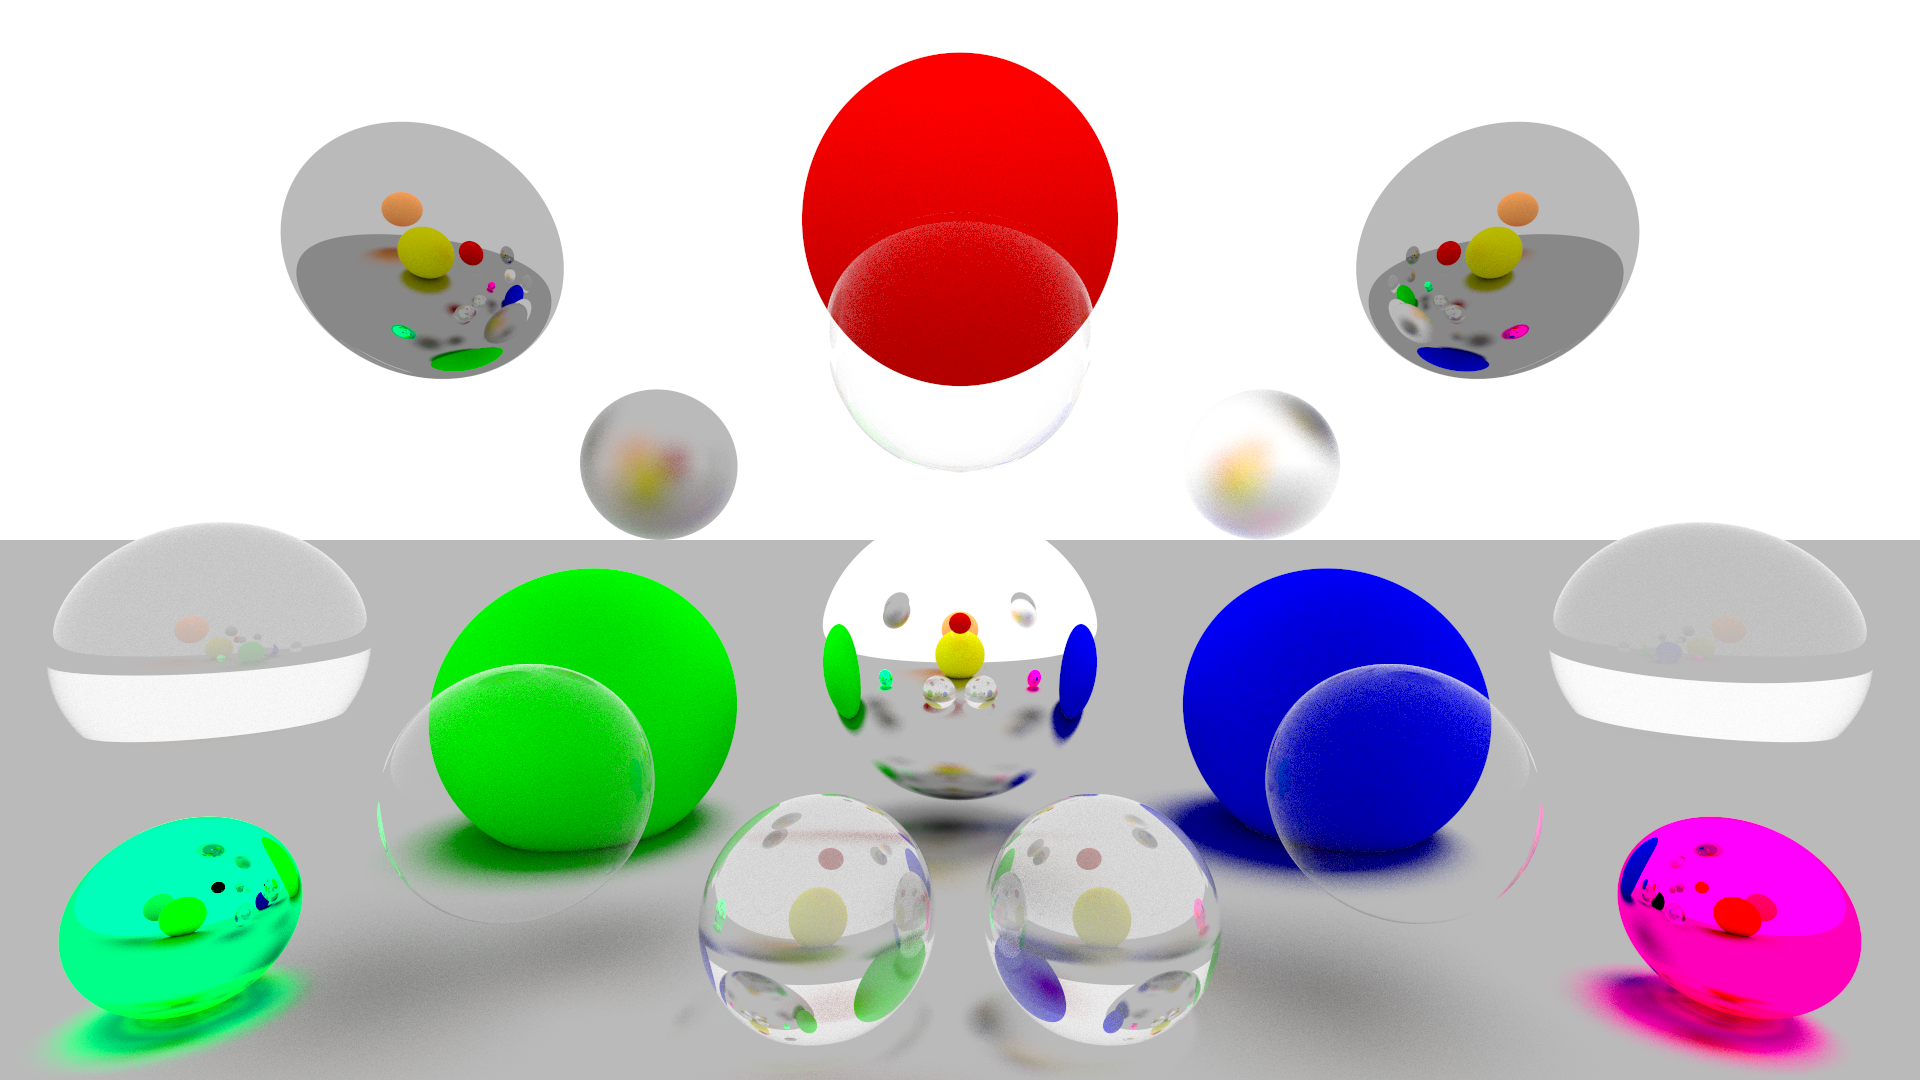
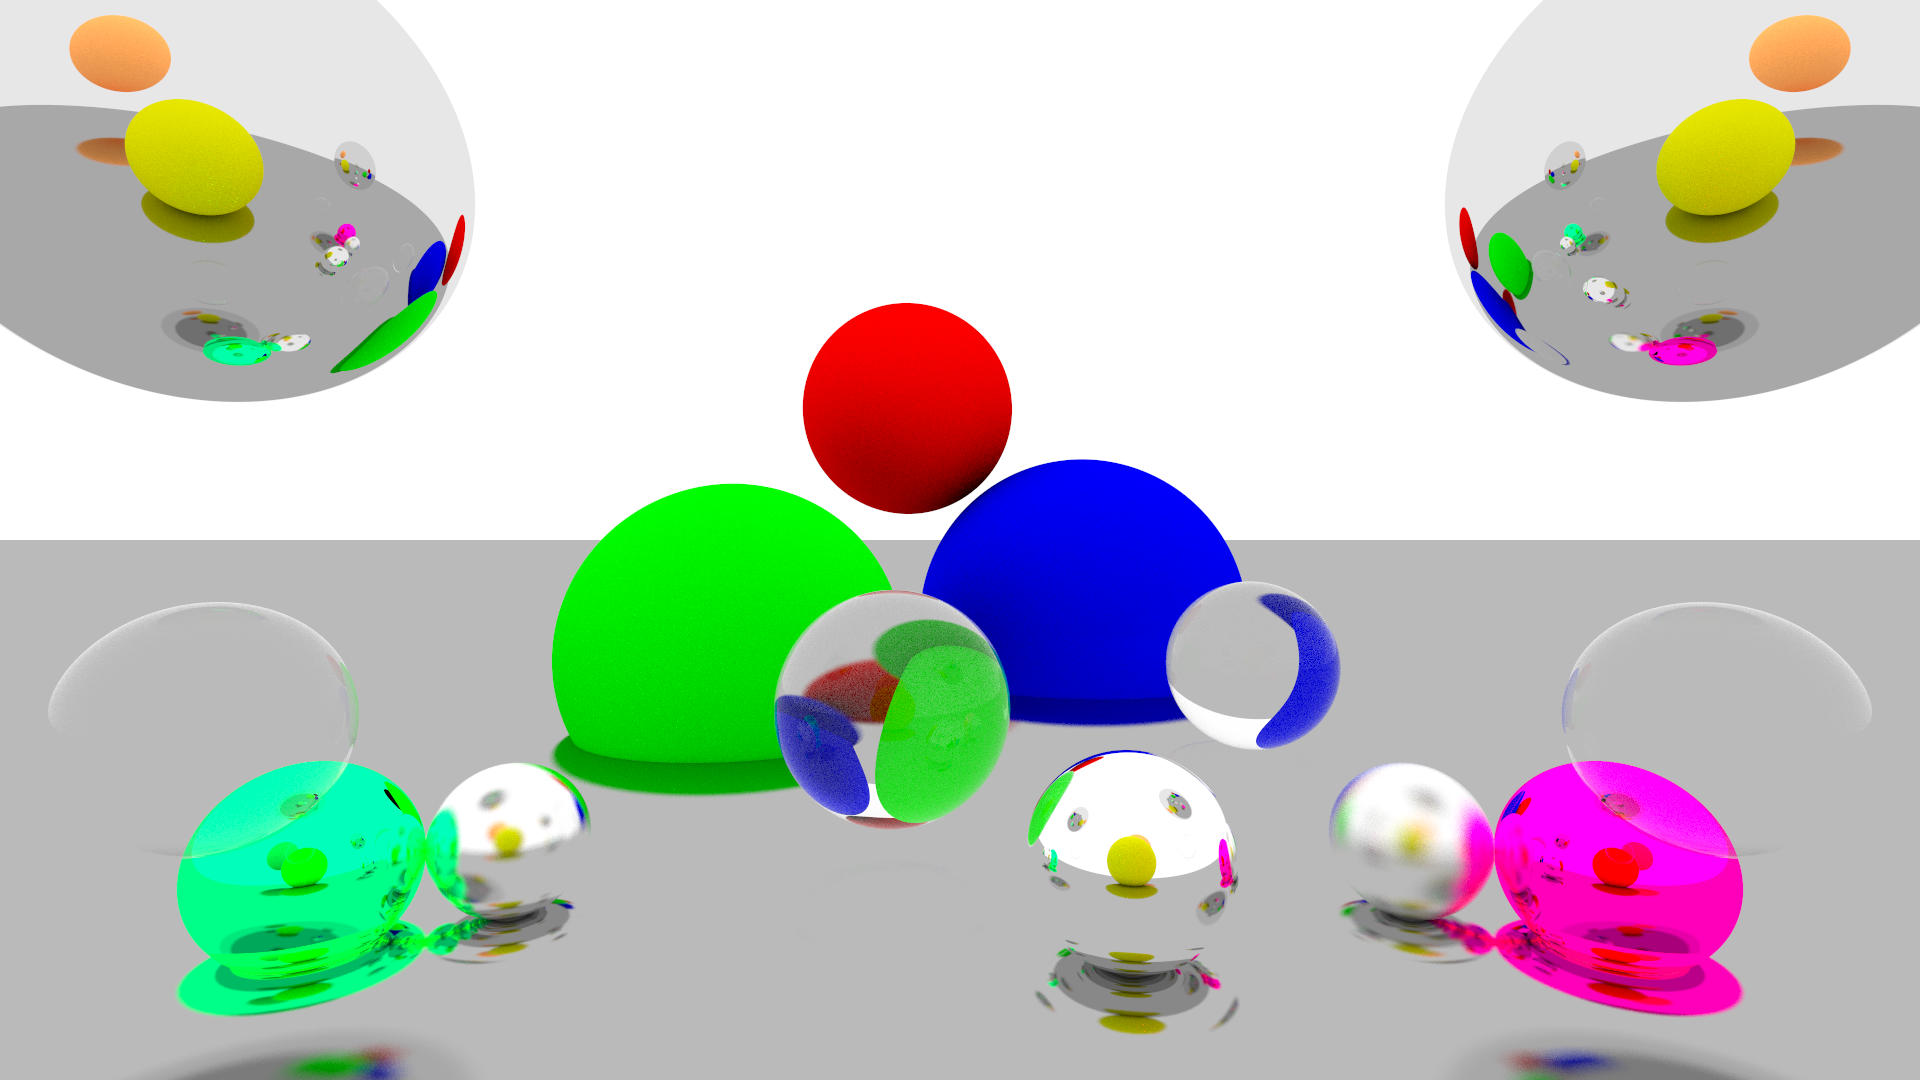
update

diff --git a/cgg-abgaben-gitHub/src/engel865650/a06/Main.java b/cgg-abgaben-gitHub/src/engel865650/a06/Main.java
@@ -22,8 +22,9 @@ public class Main {
 	static Material material;
 
 	public static void main(String[] args) {
-		// a06_mirrors_glass_1();
-		a06_mirrors_glass_2();
+
+		a06_mirrors_glass_1();
+		// a06_mirrors_glass_2();
 	}
 
 	public static void a06_mirrors_glass_1() {
@@ -35,36 +36,35 @@ public class Main {
 		//
 		Background background = new Background(new BackgroundMaterial());
 		//
-		Shape glassGlobeCenter = new Globe(new Vec3(0.0, -0.4, -3.3), 0.5, new PolishedMetalMaterial());
+		Shape glassGlobeCenter = new Globe(new Vec3(0.4, -0.75, -2.2), 0.25, new PolishedMetalMaterial());
 		//
-		Shape glass1 = new Globe(new Vec3(0.7, -0.4, -1.5), 0.2, new GlassMaterial(1.0));
-		Shape glass2 = new Globe(new Vec3(0.0, 0.30, -1.4), 0.2, new GlassMaterial(1.0));
-		Shape glass3 = new Globe(new Vec3(-0.7, -0.4, -1.5), 0.2, new GlassMaterial(1.0));
+		Shape glass1 = new Globe(new Vec3(1.2, -0.3, -1.5), 0.2, new GlassMaterial(1.0));
+		Shape glass3 = new Globe(new Vec3(-1.2, -0.3, -1.5), 0.2, new GlassMaterial(1.0));
 		//
-		Shape blueGlobe = new Globe(new Vec3(1.3, -0.6, -3.3), 0.5, new DiffuseMaterial(Vec3.blue));
-		Shape greenGlobe = new Globe(new Vec3(-1.3, -0.6, -3.3), 0.5, new DiffuseMaterial(Vec3.green));
-		Shape redGlobe = new Globe(new Vec3(0.0, 0.5, -1.5), 0.25, new DiffuseMaterial(Vec3.red));
+		Shape blueGlobe = new Globe(new Vec3(0.9, -0.6, -7.0), 1.2, new DiffuseMaterial(Vec3.blue));
+		Shape greenGlobe = new Globe(new Vec3(-1.2, -0.6, -5.0), 0.9, new DiffuseMaterial(Vec3.green));
+		Shape redGlobe = new Globe(new Vec3(-0.4, 1.0, -7.2), 0.8, new DiffuseMaterial(Vec3.red));
 		//
 		Shape yellowGlobe = new Globe(new Vec3(0.0, 0.0, 0.4), 1.1, new DiffuseMaterial(new Vec3(1, 1, 0)));
 		Shape orangeGlobe = new Globe(new Vec3(0.0, 5.0, 8.5), 3.0, new DiffuseMaterial(new Vec3(1.9, 0.75, 0.2)));
 		//
-		Shape colorReflectedGreen = new Globe(new Vec3(-1.65, -0.8, -2.0), 0.2,
+		Shape colorReflectedGreen = new Globe(new Vec3(-1.6, -0.8, -2.3), 0.25,
 				new PolishedMetalMaterial(new Vec3(0, 2, 0.5), 0.0));
-		Shape colorReflectedPink = new Globe(new Vec3(1.65, -0.8, -2.0), 0.2,
+		Shape colorReflectedPink = new Globe(new Vec3(1.6, -0.8, -2.3), 0.25,
 				new PolishedMetalMaterial(new Vec3(2, 0, 1), 0.0));
 		//
-		Shape grayGlobeLeft = new Globe(new Vec3(-1.3, 0.7, -2.3), 0.3, new PolishedMetalMaterial(Vec3.gray, 0.0));
-		Shape grayGlobeRight = new Globe(new Vec3(1.3, 0.7, -2.3), 0.3, new PolishedMetalMaterial(Vec3.gray, 0.0));
+		Shape grayGlobeLeft = new Globe(new Vec3(-1.6, 0.8, -2.0), 0.5,
+				new PolishedMetalMaterial(new Vec3(0.8, 0.8, 0.8), 0.0));
+		Shape grayGlobeRight = new Globe(new Vec3(1.6, 0.8, -2.0), 0.5,
+				new PolishedMetalMaterial(new Vec3(0.8, 0.8, 0.8), 0.0));
 		//
-		Shape polishedGlobeLeft = new Globe(new Vec3(-0.8, 0.2, -2.5), 0.2, new PolishedMetalMaterial(Vec3.gray, 2.5));
-		Shape polishedGlobeRight = new Globe(new Vec3(0.8, 0.2, -2.5), 0.2,
-				new PolishedMetalMaterial(Vec3.reflection, 1.5));
+		Shape polishedGlobeLeft = new Globe(new Vec3(-1.2, -0.8, -2.5), 0.2,
+				new PolishedMetalMaterial(Vec3.reflection, 0.1));
+		Shape polishedGlobeRight = new Globe(new Vec3(1.2, -0.8, -2.5), 0.2,
+				new PolishedMetalMaterial(Vec3.reflection, 0.3));
 		//
-		Shape glassGlobeLeft = new Globe(new Vec3(-4.1, -0.6, -5.2), 0.7, new GlassMaterial(2.3));
-		Shape glassGlobeRight = new Globe(new Vec3(4.1, -0.6, -5.2), 0.7, new GlassMaterial(1.8));
-		//
-		Shape glassGlobeCenterLeft = new Globe(new Vec3(-0.3, -0.8, -2.0), 0.25, new GlassMaterial(4.0));
-		Shape glassGlobeCenterRight = new Globe(new Vec3(0.3, -0.8, -2.0), 0.25, new GlassMaterial(4.0));
+		Shape glassGlobeCenterLeft = new Globe(new Vec3(-0.2, -0.5, -2.8), 0.35, new GlassMaterial(1.5));
+		Shape glassGlobeCenterRight = new Globe(new Vec3(1.4, -0.6, -4.5), 0.4, new GlassMaterial(1.3));
 		//
 		List<Shape> shapes = new ArrayList<Shape>();
 		//
@@ -75,7 +75,6 @@ public class Main {
 		shapes.add(glassGlobeCenter);
 		//
 		shapes.add(glass1);
-		shapes.add(glass2);
 		shapes.add(glass3);
 		//
 		shapes.add(blueGlobe);
@@ -93,9 +92,6 @@ public class Main {
 		//
 		shapes.add(polishedGlobeLeft);
 		shapes.add(polishedGlobeRight);
-		//
-		shapes.add(glassGlobeLeft);
-		shapes.add(glassGlobeRight);
 		//
 		shapes.add(glassGlobeCenterLeft);
 		shapes.add(glassGlobeCenterRight);
@@ -115,7 +111,7 @@ public class Main {
 						double xs = x + (xi + rx) / sampler;
 						double ys = y + (yi + ry) / sampler;
 						Ray currentRay = obscura.generate(xs, ys);
-						shade = calculateRadiance(group, currentRay, 3.5);
+						shade = calculateRadiance(group, currentRay, 3.8);
 						background = Vec3.divide(shade, sampler * sampler);
 						color = Vec3.add(color, background);
 					}
@@ -136,19 +132,20 @@ public class Main {
 		//
 		Background background = new Background(new BackgroundMaterial());
 		//
-		Shape blueGlobe = new Globe(new Vec3(1.8, -0.3, -3.3), 0.5, new DiffuseMaterial(Vec3.blue));
-		Shape greenGlobe = new Globe(new Vec3(-1.9, -0.8, -3.3), 0.5, new DiffuseMaterial(Vec3.green));
+		Shape glassGlobe = new Globe(new Vec3(0.0, 0.2, -5.0), 0.7, new GlassMaterial(1.3));
+		Shape glassGlobe2 = new Globe(new Vec3(-2.0, 0.0, -4.8), 0.7, new GlassMaterial(1.5));
+		Shape glassGlobe3 = new Globe(new Vec3(2.0, 0.0, -4.8), 0.7, new GlassMaterial(1.5));
+		Shape glassGlobe4 = new Globe(new Vec3(-3.5, -0.3, -4.5), 0.7, new PolishedMetalMaterial(Vec3.green, 0.0));
+		Shape glassGlobe5 = new Globe(new Vec3(3.5, -0.3, -4.5), 0.7, new PolishedMetalMaterial(Vec3.red, 0.0));
+		Shape glassGlobe6 = new Globe(new Vec3(-0.7, -0.6, -3.5), 0.4, new PolishedMetalMaterial(Vec3.blue, 0.0));
+		Shape glassGlobe7 = new Globe(new Vec3(0.7, -0.6, -3.5), 0.4, new PolishedMetalMaterial(Vec3.reflection, 0.0));
+		Shape glass = new Globe(new Vec3(0.5, 0.0, -2.5), 0.5, new GlassMaterial(1.0));
+		Shape glass2 = new Globe(new Vec3(-0.5, 0.0, -2.5), 0.5, new GlassMaterial(1.0));
 		//
-		Shape glassGlobe = new Globe(new Vec3(-0.9, -0.1, -2.3), 0.4, new GlassMaterial(2.0));
-		Shape glass = new Globe(new Vec3(0.3, 0.0, -2.5), 0.35, new GlassMaterial(1.0));
-		//
-		Shape yellowGlobe = new Globe(new Vec3(0.0, 0.0, 0.4), 1.1, new DiffuseMaterial(new Vec3(1, 1, 0)));
-		//
-		Shape glassGlobeCenter = new Globe(new Vec3(1.4, 0.7, -3.5), 0.5, new PolishedMetalMaterial(Vec3.gray, 0.0));
-		Shape glassGlobeCenter2 = new Globe(new Vec3(-1.4, 0.7, -5.0), 0.8,
-				new PolishedMetalMaterial(new Vec3(Random.random(), Random.random(), Random.random()), 0.0));
-		//
-		Shape polishedGlobe = new Globe(new Vec3(0.5, -0.8, -2.5), 0.2, new PolishedMetalMaterial(Vec3.white, 1.5));
+		Shape polishedGlobeLeft = new Globe(new Vec3(-1.5, -0.8, -3.5), 0.2,
+				new PolishedMetalMaterial(Vec3.gray, 0.05));
+		Shape polishedGlobeRight = new Globe(new Vec3(1.5, -0.8, -3.5), 0.2,
+				new PolishedMetalMaterial(Vec3.reflection, 0.05));
 		//
 		ArrayList<Shape> shapes = new ArrayList<>();
 		//
@@ -156,16 +153,27 @@ public class Main {
 		//
 		shapes.add(background);
 		//
-		shapes.add(blueGlobe);
-		shapes.add(greenGlobe);
-		shapes.add(yellowGlobe);
-		//
 		shapes.add(glassGlobe);
+		shapes.add(glassGlobe2);
+		shapes.add(glassGlobe3);
+		shapes.add(glassGlobe4);
+		shapes.add(glassGlobe5);
+		shapes.add(glassGlobe6);
+		shapes.add(glassGlobe7);
 		shapes.add(glass);
-		shapes.add(glassGlobeCenter);
-		shapes.add(glassGlobeCenter2);
+		shapes.add(glass2);
 		//
-		shapes.add(polishedGlobe);
+		shapes.add(polishedGlobeLeft);
+		shapes.add(polishedGlobeRight);
+		//
+		int globes = 20;
+		for (int i = -20; i < globes; i++) {
+			for (int j = 0; j < globes; j++) {
+				Shape manyGlobes = new Globe(new Vec3(i, Random.random() * 45, j * (-3.5)), 0.36,
+						new DiffuseMaterial(new Vec3(Random.random(), Random.random(), Random.random())));
+				shapes.add(manyGlobes);
+			}
+		}
 		//
 		Group group = new Group(shapes);
 		raytrace2(obscura, group, 10);

diff --git a/cgg-abgaben-gitHub/src/engel865650/a06/PolishedMetalMaterial.java b/cgg-abgaben-gitHub/src/engel865650/a06/PolishedMetalMaterial.java
@@ -33,8 +33,8 @@ public class PolishedMetalMaterial implements Material {
 		Vec3 rr = Vec3.subtract(r.getDirection(),
 				Vec3.multiply(2 * Vec3.dotProduct(h.getNormalVector(), r.getDirection()), h.getNormalVector()));
 		if (scatter_factor != 0) {
-			Vec3 random = new Vec3(Random.random(), Random.random(), Random.random());
-			rr = Vec3.add(rr, random);
+			Vec3 random = new Vec3(Random.random() * 2 - 1, Random.random() * 2 - 1, Random.random() * 2 - 1);
+			rr = Vec3.add(rr, Vec3.multiply(scatter_factor, random));
 		}
 		return new Ray(h.getPositionHit(), rr, 0.00001, Double.POSITIVE_INFINITY);
 	}
